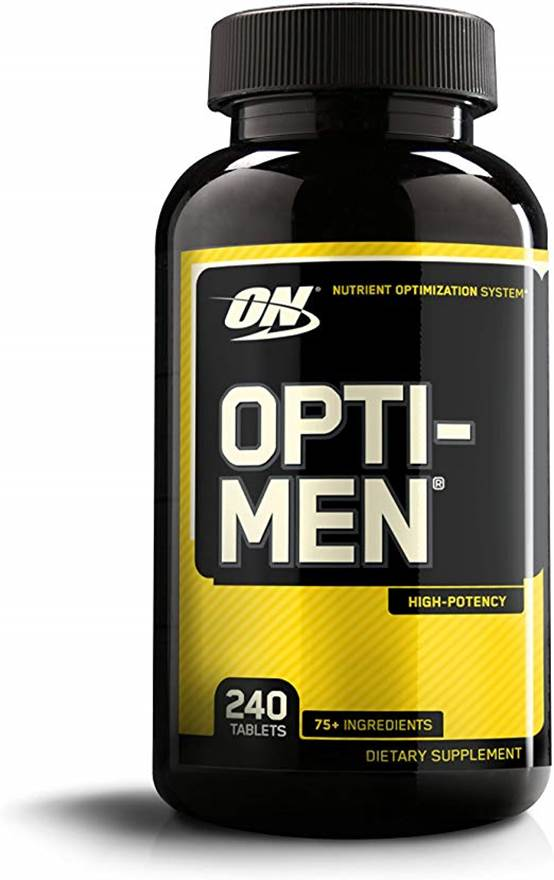
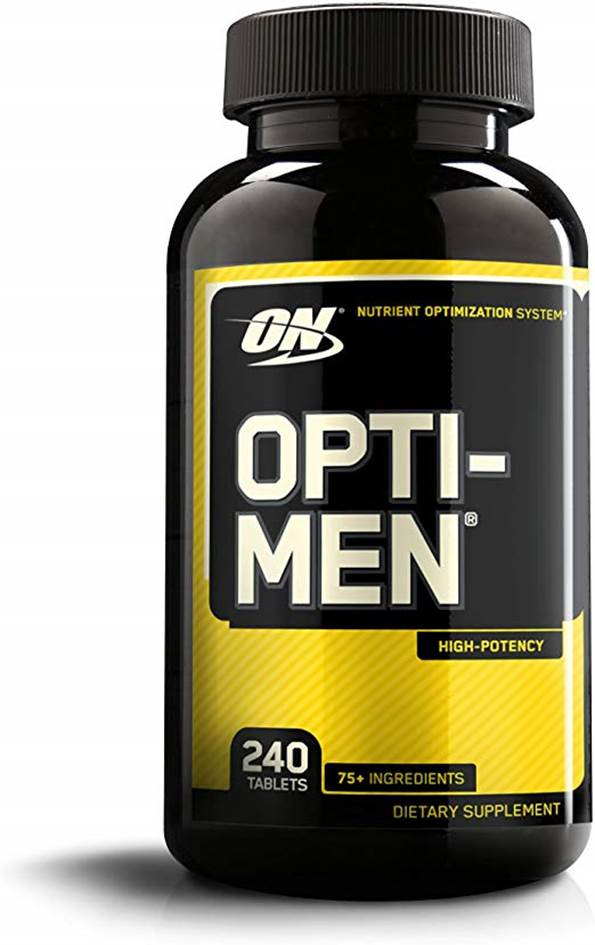
NA

diff --git a/pages/broscience.html b/pages/broscience.html
@@ -28,8 +28,6 @@ w\:* {behavior:url(#default#VML);}
 <!--[if gte mso 9]><xml>
  <w:WordDocument>
   <w:View>Print</w:View>
-  <w:SpellingState>Clean</w:SpellingState>
-  <w:GrammarState>Clean</w:GrammarState>
   <w:TrackMoves>false</w:TrackMoves>
   <w:TrackFormatting/>
   <w:ValidateAgainstSchemas/>
@@ -865,12 +863,6 @@ p.msonormal0, li.msonormal0, div.msonormal0
 	font-family:"Times New Roman",serif;
 	mso-fareast-font-family:"Times New Roman";
 	mso-fareast-theme-font:minor-fareast;}
-span.SpellE
-	{mso-style-name:"";
-	mso-spl-e:yes;}
-span.GramE
-	{mso-style-name:"";
-	mso-gram-e:yes;}
 .MsoChpDefault
 	{mso-style-type:export-only;
 	mso-default-props:yes;
@@ -997,19 +989,16 @@ ul
 
 <div class=WordSection1>
 
-<h1><span class=SpellE><span style='mso-fareast-font-family:"Times New Roman"'>Broscience</span></span><span
-style='mso-fareast-font-family:"Times New Roman"'> and my doping secrets<o:p></o:p></span></h1>
+<h1><span style='mso-fareast-font-family:"Times New Roman"'>Broscience and my
+doping secrets<o:p></o:p></span></h1>
 
 <p class=MsoNormal><i><span style='mso-fareast-font-family:"Times New Roman"'>Last
 updated Wed 02-Oct-2019</span></i><span style='mso-fareast-font-family:"Times New Roman"'>
 --- s<i style='mso-bidi-font-style:normal'>uggestions, recommendations,
-requests, comments, &#8230; or just that you found it useful -&gt; </i></span><span
-class=SpellE><span class=GramE><i style='mso-bidi-font-style:normal'><span
-style='font-size:10.0pt;font-family:"Segoe UI",sans-serif;color:#2D2D32;
-background:white'>sigma.fusion</span></i></span></span><i style='mso-bidi-font-style:
-normal'><span style='font-size:10.0pt;font-family:"Segoe UI",sans-serif;
-color:#2D2D32;background:white'> at pm.me</span></i><span style='mso-fareast-font-family:
-"Times New Roman"'><o:p></o:p></span></p>
+requests, comments, &#8230; or just that you found it useful -&gt; </i></span><i
+style='mso-bidi-font-style:normal'><span style='font-size:10.0pt;font-family:
+"Segoe UI",sans-serif;color:#2D2D32;background:white'>sigma.fusion at pm.me</span></i><span
+style='mso-fareast-font-family:"Times New Roman"'><o:p></o:p></span></p>
 
 <p class=MsoNormal><br>
 <span style='mso-fareast-font-family:"Times New Roman"'>Disclaimer: take
@@ -1069,7 +1058,7 @@ available in my area. Organic porridge, the stuff of legends, with hot water
  </v:formulas>
  <v:path o:extrusionok="f" gradientshapeok="t" o:connecttype="rect"/>
  <o:lock v:ext="edit" aspectratio="t"/>
-</v:shapetype><v:shape id="Picture_x0020_1" o:spid="_x0000_i1030" type="#_x0000_t75"
+</v:shapetype><v:shape id="Picture_x0020_1" o:spid="_x0000_i1032" type="#_x0000_t75"
  alt="Image result for Bjorg Porridge" style='width:374.25pt;height:374.25pt;
  visibility:visible;mso-wrap-style:square'>
  <v:imagedata src="broscience_files/image001.jpg" o:title="Image result for Bjorg Porridge"/>
@@ -1085,13 +1074,13 @@ organic cinnamon for taste again + anti-inflammatory properties.<br>
 <br>
 <br>
 </span><span style='mso-no-proof:yes'><!--[if gte vml 1]><v:shape id="Picture_x0020_2"
- o:spid="_x0000_i1029" type="#_x0000_t75" alt="Image result for Nature Bio Confiture de myrtille"
+ o:spid="_x0000_i1031" type="#_x0000_t75" alt="Image result for Nature Bio Confiture de myrtille"
  style='width:268.9pt;height:268.9pt;visibility:visible;mso-wrap-style:square'>
  <v:imagedata src="broscience_files/image003.jpg" o:title="Image result for Nature Bio Confiture de myrtille"/>
 </v:shape><![endif]--><![if !vml]><img width=359 height=359
 src="broscience_files/image011.jpg"
 alt="Image result for Nature Bio Confiture de myrtille" v:shapes="Picture_x0020_2"><![endif]><!--[if gte vml 1]><v:shape
- id="Picture_x0020_3" o:spid="_x0000_i1028" type="#_x0000_t75" alt="Image result for La caravane des &eacute;pices La Caravane des Epices Cannelle moulue bio"
+ id="Picture_x0020_3" o:spid="_x0000_i1030" type="#_x0000_t75" alt="Image result for La caravane des &eacute;pices La Caravane des Epices Cannelle moulue bio"
  style='width:123.75pt;height:273pt;visibility:visible;mso-wrap-style:square'>
  <v:imagedata src="broscience_files/image005.jpg" o:title="Image result for La caravane des &eacute;pices La Caravane des Epices Cannelle moulue bio"/>
 </v:shape><![endif]--><![if !vml]><img width=165 height=364
@@ -1110,26 +1099,56 @@ v:shapes="Picture_x0020_3"><![endif]></span><span style='mso-fareast-font-family
 
 <p class=MsoNormal>Popping pills, but these are not the ones you are looking
 for. Some of these &#8211; e.g. multivitamins exist in women formula. If you think
-you are a <span class=GramE>women</span> but have the body of a men, you have
-gender dysphoria, and need to seek the help of a clinical psychologist.</p>
+you are a women but have the body of a men, you have gender dysphoria, and need
+to seek the help of a clinical psychologist.</p>
 
 <p class=MsoNormal><o:p>&nbsp;</o:p></p>
 
-<p class=MsoNormal>A good multivitamin<br>
-<br>
+<p class=MsoNormal><b>A good multivitamin &#8211; the base</b><br>
 <a
 href="https://www.amazon.com/NUTRITION-Opti-Men-Multivitamin-Supplement-Vitamins/dp/B00MEVITCY/">https://www.amazon.com/NUTRITION-Opti-Men-Multivitamin-Supplement-Vitamins/dp/B00MEVITCY/</a><br>
 <br>
-<span style='mso-no-proof:yes'><!--[if gte vml 1]><v:shape id="_x0000_i1027"
+<span style='mso-no-proof:yes'><!--[if gte vml 1]><v:shape id="_x0000_i1029"
  type="#_x0000_t75" alt="OPTIMUM NUTRITION Opti-Men, Mens Daily Multivitamin Supplement with Vitamins C, D, E, B12, 240 Count"
- style='width:207.75pt;height:330pt;visibility:visible;mso-wrap-style:square'>
+ style='width:223.15pt;height:354.4pt;visibility:visible;mso-wrap-style:square'>
  <v:imagedata src="broscience_files/image008.jpg" o:title="OPTIMUM NUTRITION Opti-Men, Mens Daily Multivitamin Supplement with Vitamins C, D, E, B12, 240 Count"/>
-</v:shape><![endif]--><![if !vml]><img border=0 width=277 height=440
+</v:shape><![endif]--><![if !vml]><img border=0 width=298 height=473
 src="broscience_files/image013.jpg"
 alt="OPTIMUM NUTRITION Opti-Men, Mens Daily Multivitamin Supplement with Vitamins C, D, E, B12, 240 Count"
-v:shapes="_x0000_i1027"><![endif]></span><br style='mso-special-character:line-break'>
+v:shapes="_x0000_i1029"><![endif]></span><br>
+<br style='mso-special-character:line-break'>
 <![if !supportLineBreakNewLine]><br style='mso-special-character:line-break'>
 <![endif]></p>
+
+<p class=MsoNormal><b>Vitamin C &#8211; another basic</b><br>
+<span style='mso-fareast-font-family:"Times New Roman"'><a
+href="https://www.amazon.com/NOW-Vitamin-Sustained-Release-Tablets/dp/B0013P1GD6">https://www.amazon.com/NOW-Vitamin-Sustained-Release-Tablets/dp/B0013P1GD6</a><br>
+<br>
+</span><span style='mso-no-proof:yes'><!--[if gte vml 1]><v:shape id="Picture_x0020_7"
+ o:spid="_x0000_i1028" type="#_x0000_t75" style='width:219pt;height:345.4pt;
+ visibility:visible;mso-wrap-style:square'>
+ <v:imagedata src="broscience_files/image016.png" o:title=""/>
+</v:shape><![endif]--><![if !vml]><img border=0 width=292 height=461
+src="broscience_files/image015.jpg" v:shapes="Picture_x0020_7"><![endif]></span><span
+style='mso-fareast-font-family:"Times New Roman"'><br>
+<br>
+<br>
+<b>Berberine</b><o:p></o:p></span></p>
+
+<p class=MsoNormal><span style='mso-fareast-font-family:"Times New Roman"'><a
+href="https://www.amazon.com/Premium-Berberine-Supplement-200-Serving/dp/B01AMPTXLE">https://www.amazon.com/Premium-Berberine-Supplement-200-Serving/dp/B01AMPTXLE</a><o:p></o:p></span></p>
+
+<p class=MsoNormal><span style='mso-fareast-font-family:"Times New Roman"'><br>
+</span><span style='mso-no-proof:yes'><!--[if gte vml 1]><v:shape id="Picture_x0020_8"
+ o:spid="_x0000_i1027" type="#_x0000_t75" style='width:216.75pt;height:357.75pt;
+ visibility:visible;mso-wrap-style:square'>
+ <v:imagedata src="broscience_files/image018.png" o:title=""/>
+</v:shape><![endif]--><![if !vml]><img border=0 width=289 height=477
+src="broscience_files/image021.jpg" v:shapes="Picture_x0020_8"><![endif]></span><span
+style='mso-fareast-font-family:"Times New Roman"'><br style='mso-special-character:
+line-break'>
+<![if !supportLineBreakNewLine]><br style='mso-special-character:line-break'>
+<![endif]><o:p></o:p></span></p>
 
 <p class=MsoNormal><span style='mso-fareast-font-family:"Times New Roman"'><br>
 <br style='mso-special-character:line-break'>
@@ -1157,7 +1176,7 @@ href="https://xxlnutrition.com/gb/eng/xxl-nutrition/delicious-crunchy-protein-ba
  visibility:visible;mso-wrap-style:square'>
  <v:imagedata src="broscience_files/image006.png" o:title=""/>
 </v:shape><![endif]--><![if !vml]><img border=0 width=569 height=361
-src="broscience_files/image015.jpg" v:shapes="Picture_x0020_5"><![endif]></span><span
+src="broscience_files/image022.jpg" v:shapes="Picture_x0020_5"><![endif]></span><span
 style='mso-fareast-font-family:"Times New Roman"'><o:p></o:p></span></p>
 
 <p class=MsoNormal style='text-indent:.5in'><span style='mso-fareast-font-family:
@@ -1178,8 +1197,8 @@ don&#8217;t usually drink and sweat a lot during bike ride &#8211; e.g. max two
 bottles during a 3 to 4h ride for example, but water and minerals are used
 during carb/fat burning, so they need to be replenished.<br>
 <br>
-I use this, it has what <span class=SpellE>you</span> body needs and taste
-quite good to boot. Pick according to taste.<br>
+I use this, it has what you body needs and taste quite good to boot. Pick
+according to taste.<br>
 <br>
 <a
 href="https://www.amazon.com/NUTRITION-ESSENTIAL-Preworkout-Essential-Servings/dp/B003X5LM1U">https://www.amazon.com/NUTRITION-ESSENTIAL-Preworkout-Essential-Servings/dp/B003X5LM1U</a><br>
@@ -1189,7 +1208,7 @@ href="https://www.amazon.com/NUTRITION-ESSENTIAL-Preworkout-Essential-Servings/d
  visibility:visible;mso-wrap-style:square'>
  <v:imagedata src="broscience_files/image014.jpg" o:title=""/>
 </v:shape><![endif]--><![if !vml]><img border=0 width=506 height=483
-src="broscience_files/image018.jpg" v:shapes="Picture_x0020_6"><![endif]></span><span
+src="broscience_files/image023.jpg" v:shapes="Picture_x0020_6"><![endif]></span><span
 style='mso-fareast-font-family:"Times New Roman"'><o:p></o:p></span></p>
 
 <p class=MsoNormal><span style='mso-fareast-font-family:"Times New Roman"'><br>
